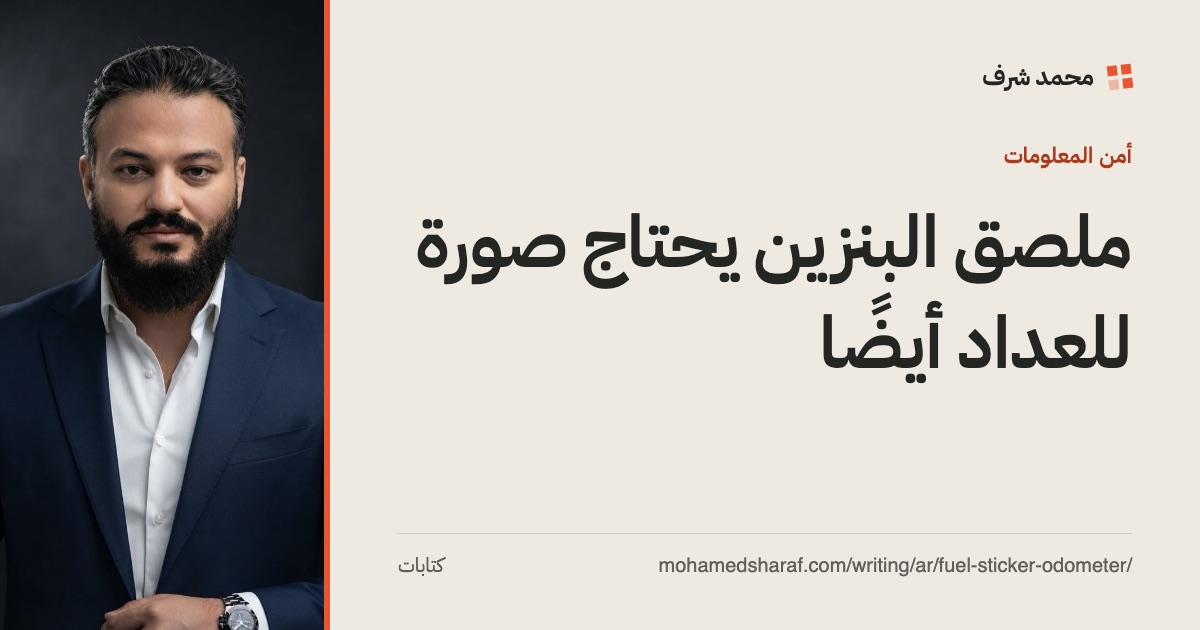
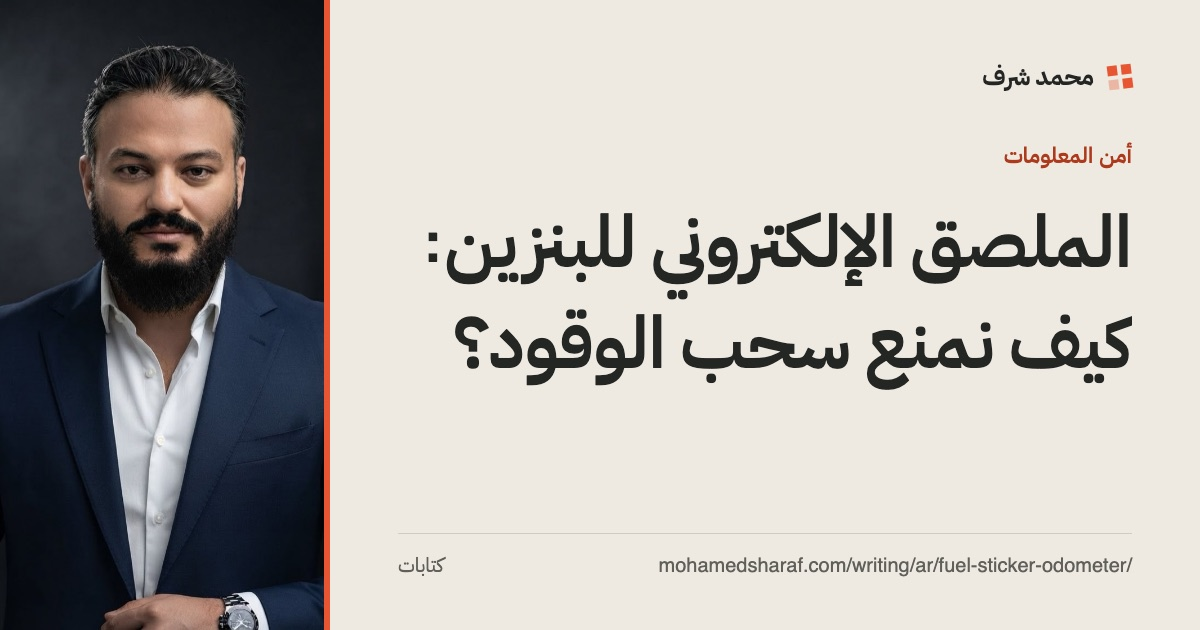
Replace the fuel sticker note with the detailed article, in English and Arabic

Changed region(s): [[0.3392, 0.3317, 0.9558, 0.6333]]

diff --git a/writing/fuel-sticker-odometer.ar.html b/writing/fuel-sticker-odometer.ar.html
@@ -1,16 +1,60 @@
 <!--
-{"slug": "fuel-sticker-odometer", "lang": "ar", "pair": "fuel-sticker-odometer", "status": "published", "title": "ملصق البنزين يحتاج صورة للعداد أيضًا", "description": "منظومة الوقود الجديدة في مصر تثبت أي سيارة تُزوَّد، لا أنها استهلكت الوقود. أضف صورة للعداد، واجعل التحايل عليها صعبًا.", "date": "2026-11-04", "topic": "أمن المعلومات"}
+{"slug": "fuel-sticker-odometer", "lang": "ar", "pair": "fuel-sticker-odometer", "status": "published", "title": "الملصق الإلكتروني للبنزين: كيف نمنع سحب الوقود؟", "description": "الملصق يثبت هوية السيارة، لا أنها استهلكت الوقود. الحل الذي أقترحه: مسح الملصق مع تصوير العداد، بضوابط أمنية تمنع التحايل عليه.", "date": "2026-11-04", "topic": "أمن المعلومات"}
 -->
 <p>في 1 نوفمبر <a href="https://www.cnbcarabia.com/159036/2026/31/10/مصر-تطلق-منظومة-إلكترونية-جديدة-لمراقبة-توزيع-الوقود">بدأت وزارة البترول تشغيلًا تجريبيًا</a> لمدة شهر في بورسعيد لمنظومة تتابع الوقود عبر الملصق الإلكتروني للسيارة الصادر عن وحدات المرور. تقرأ المحطات الملصق لتسجيل كل عملية تزويد، ومن <a href="https://www.elwatannews.com/news/details/8388115">الأهداف المعلنة</a> رصد أنماط الاستهلاك غير المعتادة. وتقول الوزارة إن المنظومة لا تحدد الكميات ولا ترتبط بالأسعار.</p>
-<p>وصلني سؤال منطقي: ما الذي يمنع سائقًا من ملء خزانه، ثم سحب الوقود وبيعه، والعودة من جديد؟ الملصق يثبت أي سيارة هذه، لكنه لا يثبت أنها استهلكت الوقود.</p>
-<p>إجابتي: امسح الملصق وصوّر العداد. مقارنة الوقود المأخوذ بالكيلومترات المقطوعة، على عدة تزويدات، تكشف من يأخذ أكثر بكثير مما تستهلكه سيارته. سيارة قطعت 50 كم منذ آخر تزويد وتطلب 40 لترًا حالة تستحق المراجعة.</p>
-<p>الفكرة بسيطة. العمل الحقيقي هو جعل التحايل عليها صعبًا:</p>
+<p>وصلني سؤال غريب لكنه منطقي: ماذا لو ملأ شخص خزان سيارته، ثم سحب الوقود منه وباعه، وعاد ليملأ من جديد؟ هنا يصبح الملصق وسيلة للتربح بدل أن يكون أداة رقابة.</p>
+<p>في هذا المقال أقترح حلًا بسيطًا، ثم أختبره بعقلية أمنية (security mindset): كيف يمكن خداعه، وكيف نسد كل ثغرة.</p>
+
+<h2>الحل المقترح: الملصق + العداد</h2>
+<p>الفكرة في خطوتين: مسح الملصق (sticker scan) لمعرفة السيارة، وتصوير عداد المسافات (odometer) لمعرفة المسافة التي قطعتها منذ آخر تزويد.</p>
+<p>النظام يعرف موديل السيارة ومعدل استهلاكه التقريبي، فيحسب الكمية المنطقية:</p>
+<pre><code>L_expected = (km_now − km_last) ÷ 100 × L100</code></pre>
+<p>حيث <code>L100</code> هو استهلاك الموديل باللتر لكل 100 كم.</p>
+<p>مثال: سيارة تستهلك 8 لترات لكل 100 كم، قطعت 50 كم فقط، وتطلب 40 لترًا. المنطقي حوالي 4 لترات، فالفرق كبير ويستحق المراجعة.</p>
+<p>المقارنة الأدق تكون تراكمية على عدة تزويدات، لأن السائق لا يملأ الخزان كاملًا في كل مرة. مجموع ما أخذته السيارة لا ينبغي أن يتجاوز ما استهلكته فعلًا بأكثر من سعة خزانها.</p>
+<p>السيارة تُزوَّد في الحالتين، والفرق أن الحالة الشاذة تُسجّل لمراجعة بشرية لاحقة.</p>
+
+<h2>التهديدات والضوابط الأمنية</h2>
+<p>أي نظام رقابي سيجد من يحاول التحايل عليه. هذه أهم الطرق المتوقعة، ولكل تهديد ضابط يقابله، ولا يكفي ضابط واحد بمفرده (Defense in depth).</p>
+
+<h3>1. سحب الوقود (Fuel siphoning)</h3>
+<p>يملأ الخزان ثم يسحب منه ويبيع، ويعود للتزويد. الضابط هو مقارنة تراكمية بين الكمية المصروفة والمسافة المقطوعة.</p>
+
+<h3>2. صورة مزيفة (Spoofed / replayed photo)</h3>
+<p>يرفع صورة قديمة للعداد أو صورة معدّلة. لذلك يكون التصوير مباشرًا من جهاز المحطة فقط (live capture)، مع ختم زمني ومعرّف الجهاز موقّعين (signed timestamp + device ID)، ولا رفع (upload) من هاتف السائق.</p>
+
+<h3>3. نقل الملصق أو استنساخه (Sticker transfer / cloning)</h3>
+<p>يستخدم ملصق سيارة متوقفة لسيارة أخرى. الضابط هو قراءة لوحة السيارة آليًا (ANPR) ومطابقتها مع الملصق، وملصق يتلف عند نزعه (tamper-evident).</p>
+
+<h3>4. ترجيع العداد (Odometer rollback)</h3>
+<p>يعدّل قراءة العداد ليبدو أنه قطع مسافة أكبر أو أصغر. وأي قراءة أقل من السابقة تعني تنبيهًا فوريًا.</p>
+
+<h3>5. تواطؤ العامل (Insider threat)</h3>
+<p>عامل المحطة يسجّل قراءة غير حقيقية مقابل مال. الضابط هو ربط كل عملية بهوية العامل والجهاز، وتحليل الأنماط لكل عامل ومحطة (anomaly detection)، وسجل غير قابل للتعديل (append-only audit log).</p>
+<p>هذه أخطر ثغرة في القائمة، لأن العامل يملك الجهاز والكاميرا معًا. التقنية وحدها لا تمنعه، لكنها تجعل كل عملية منسوبة إلى شخص بعينه. والعامل الذي يشذّ نمطه عن زملائه سيظهر في التحليل سريعًا.</p>
+
+<h3>6. التكرار بين المحطات (Double dipping)</h3>
+<p>يزوّد من أكثر من محطة في وقت قصير. الحل هو سجل مركزي واحد لكل سيارة، تراه كل المحطات لحظيًا.</p>
+
+<h2>نرصد ولا نمنع (Flag, Don’t Block)</h2>
+<p>النظام يضع علامة على الحالات الغريبة ويحيلها للمراجعة، ولا يمنع التزويد آليًا.</p>
+<p>السبب هو الإنذارات الكاذبة (false positives): عداد معطّل، أو رحلة سفر طويلة، أو سيارة تقضي ساعات في الزحام فتستهلك أكثر من المعدل. المنع الآلي هنا يظلم أبرياء ويصنع طوابير.</p>
 <ul>
-  <li>تُلتقط الصورة مباشرة من جهاز المحطة، بوقت ومعرّف جهاز موقّعين. لا تُقبل صورة مرفوعة من هاتف السائق.</li>
-  <li>تُقرأ لوحة السيارة آليًا وتُطابق مع الملصق، حتى لا ينتقل الملصق إلى سيارة أخرى.</li>
-  <li>أي قراءة للعداد أقل من السابقة تعني تنبيهًا فوريًا.</li>
-  <li>كل عملية مرتبطة بالعامل الذي نفذها. تواطؤ العاملين هو الخطر الأكبر، وأنماطهم تظهر بوضوح.</li>
-  <li>نضع علامة ولا نمنع. العداد المعطل والسفر الطويل حالات حقيقية، فالقرار النهائي لموظف يراجع الحالة.</li>
-  <li>تُحفظ القراءة، وتُحذف الصورة.</li>
+  <li>كل عملية تأخذ درجة خطورة (risk score) بدل قرار نعم/لا.</li>
+  <li>القرار النهائي بشري (human in the loop)، والإجراء يأتي بعد تكرار النمط لا من أول مرة.</li>
+  <li>السيارة ذات العداد المعطّل تُسجّل كحالة خاصة مع مهلة للإصلاح.</li>
 </ul>
-<p class="note">هذا تصوري الشخصي، وليس وصفًا لطريقة عمل المنظومة الرسمية.</p>
+
+<h2>الخصوصية (Privacy)</h2>
+<p>النظام يحتاج الرقم لا الصورة، فلا داعي لاحتفاظه بما لا يحتاجه (data minimization):</p>
+<ul>
+  <li><strong>الصورة:</strong> تُقرأ منها القيمة ثم تُحذف، إلا إذا وُضعت عليها علامة فتُحفظ للمراجعة فقط.</li>
+  <li><strong>المخزّن:</strong> رقم الملصق، قراءة العداد، الكمية، المحطة، الوقت. لا تتبّع لموقع السيارة خارج المحطات.</li>
+  <li><strong>الوصول:</strong> تشفير البيانات، وصلاحيات بأقل قدر لازم (least privilege)، وسجل لكل من يطّلع على بيانات سيارة.</li>
+  <li><strong>الاحتفاظ:</strong> مدة محددة معلنة (retention policy) تُحذف بعدها السجلات القديمة.</li>
+</ul>
+
+<h2>الخلاصة</h2>
+<p>“مسح الملصق + صورة العداد” فكرة بسيطة، لكن قيمتها الحقيقية في التفاصيل الأمنية حولها: من يلتقط الصورة، وكيف نثبت أنها حقيقية، وماذا نفعل عند الشك. الفكرة بسيطة، لكن الشيطان دائمًا في الـ security.</p>
+<p>هل ترى ثغرة لم أذكرها؟ شاركني رأيك.</p>
+<p class="note">تنويه: هذا تصور شخصي مني لحل المشكلة، وليس وصفًا للمنظومة الرسمية أو طريقة بنائها.</p>

diff --git a/writing/fuel-sticker-odometer.en.html b/writing/fuel-sticker-odometer.en.html
@@ -1,16 +1,60 @@
 <!--
-{"slug": "fuel-sticker-odometer", "lang": "en", "pair": "fuel-sticker-odometer", "status": "published", "title": "The fuel sticker needs an odometer photo too", "description": "Egypt’s new fuel tracking proves which car is filling up, not that it burned the fuel. Add an odometer photo, and make it hard to cheat.", "date": "2026-11-04", "topic": "Security"}
+{"slug": "fuel-sticker-odometer", "lang": "en", "pair": "fuel-sticker-odometer", "status": "published", "title": "The fuel e-sticker: how do we stop fuel siphoning?", "description": "The sticker proves which car it is, not that it used the fuel. My proposal: scan the sticker, photograph the odometer, and make cheating hard.", "date": "2026-11-04", "topic": "Security"}
 -->
 <p>On 1 November Egypt’s Ministry of Petroleum <a href="https://www.cnbcarabia.com/159036/2026/31/10/مصر-تطلق-منظومة-إلكترونية-جديدة-لمراقبة-توزيع-الوقود">started a one-month trial</a> in Port Said of a system that tracks fuel through each car’s electronic traffic sticker. Stations read the sticker to log every fill-up, and one <a href="https://egyptoil-gas.com/news/egypt-to-pilot-digital-fuel-tracking-system-to-curb-smuggling/">stated goal</a> is spotting unusual consumption. The ministry says it won’t limit quantities or touch prices.</p>
-<p>Someone asked me a fair question: what stops a driver filling up, siphoning the fuel out, selling it and coming back? The sticker proves which car it is. It doesn’t prove the car burned the fuel.</p>
-<p>My answer: scan the sticker and photograph the odometer. Fuel taken against kilometres driven, checked over several fill-ups, shows who takes far more than their car could use. 50 km since the last visit and 40 litres requested is worth a look.</p>
-<p>The idea is simple. Making it hard to cheat is the real work:</p>
+<p>I got a strange but fair question: what if someone fills the tank, siphons the fuel out, sells it and comes back to fill up again? Then the sticker becomes a way to profit instead of a control.</p>
+<p>In this article I propose a simple solution, then test it with a security mindset: how could it be fooled, and how do we close each gap?</p>
+
+<h2>The proposed solution: sticker + odometer</h2>
+<p>Two steps: scan the sticker to identify the car, and photograph the odometer to see how far it has driven since the last refuel.</p>
+<p>The system knows the car’s model and its typical consumption, so it calculates the expected amount:</p>
+<pre><code>L_expected = (km_now − km_last) ÷ 100 × L100</code></pre>
+<p>Here <code>L100</code> is the model’s consumption in litres per 100 km.</p>
+<p>Example: a car that uses 8 litres per 100 km has driven only 50 km and asks for 40 litres. The expected amount is about 4 litres, so the gap is large and worth a review.</p>
+<p>A more accurate check is cumulative across several refuels, because drivers don’t always fill the tank. The total fuel a car has taken should never exceed what it actually burned by more than one tank’s capacity.</p>
+<p>The car is refuelled either way. An anomaly is simply logged for a later human review.</p>
+
+<h2>Threats and controls</h2>
+<p>Any control system will attract people trying to game it. These are the most likely attacks, each with its matching control. No single control is enough on its own (defence in depth).</p>
+
+<h3>1. Fuel siphoning</h3>
+<p>The driver fills the tank, drains and sells the fuel, then comes back to refuel. The control is a cumulative comparison of fuel dispensed against distance driven.</p>
+
+<h3>2. Spoofed or replayed photo</h3>
+<p>Someone submits an old odometer photo or an edited one. So the photo is a live capture from the station’s device only, with a signed timestamp and device ID. No uploads from the driver’s phone.</p>
+
+<h3>3. Sticker transfer or cloning</h3>
+<p>A parked car’s sticker gets used on another car. Automatic plate reading (ANPR) matched to the sticker stops this, along with a tamper-evident sticker that breaks when removed.</p>
+
+<h3>4. Odometer rollback</h3>
+<p>The odometer is tampered with so the distance looks longer or shorter. Any reading lower than the previous one triggers an instant alert.</p>
+
+<h3>5. Insider threat</h3>
+<p>A station attendant records a fake reading for a bribe. Every transaction is tied to the attendant’s identity and device, with anomaly detection per attendant and station, and an append-only audit log.</p>
+<p>This is the most dangerous gap, because the attendant controls both the device and the camera. Technology alone can’t stop it, but it ties every transaction to a specific person. An attendant whose pattern differs from their colleagues’ will stand out quickly.</p>
+
+<h3>6. Double dipping</h3>
+<p>The driver refuels at several stations within a short time. The answer is one central record per car, visible to every station in real time.</p>
+
+<h2>Flag, don’t block</h2>
+<p>The system flags unusual cases for review. It does not block refuelling automatically.</p>
+<p>The reason is false positives: a broken odometer, a long road trip, or a car that spends hours in traffic and burns more than average. Automatic blocking would punish innocent drivers and create queues.</p>
 <ul>
-  <li>Take the photo live on the station’s device, with a signed time and device ID. Never accept an upload from the driver’s phone.</li>
-  <li>Read the number plate automatically and match it to the sticker, so a sticker can’t move to another car.</li>
-  <li>Treat any odometer reading lower than the last one as an instant alert.</li>
-  <li>Tie every transaction to the attendant who made it. Colluding staff are the biggest risk, and their patterns stand out.</li>
-  <li>Flag, don’t block. Broken odometers and long trips are real, so a person makes the call.</li>
-  <li>Keep the reading, delete the photo.</li>
+  <li>Every transaction gets a risk score instead of a yes/no decision.</li>
+  <li>The final call is made by a person (human in the loop), and action follows a repeated pattern, not a single event.</li>
+  <li>A car with a broken odometer is registered as a special case with a grace period to fix it.</li>
 </ul>
-<p class="note">This is my own proposal, not a description of how the official system works.</p>
+
+<h2>Privacy</h2>
+<p>The system needs the number, not the photo, so it shouldn’t keep what it doesn’t need (data minimisation):</p>
+<ul>
+  <li><strong>Photo:</strong> the reading is extracted, then the photo is deleted, unless it is flagged and kept for review only.</li>
+  <li><strong>Stored:</strong> sticker number, odometer reading, amount, station and time. No tracking of the car’s location outside stations.</li>
+  <li><strong>Access:</strong> encrypted data, least-privilege permissions, and a log of everyone who views a car’s records.</li>
+  <li><strong>Retention:</strong> a fixed, published retention period, after which old records are deleted.</li>
+</ul>
+
+<h2>Conclusion</h2>
+<p>“Sticker scan + odometer photo” is a simple idea. Its real value is in the security details around it: who takes the photo, how we prove it’s genuine, and what we do when something looks off. The idea is simple, but the devil is always in the security.</p>
+<p>See a gap I missed? Let me know.</p>
+<p class="note">This is my personal take on solving the problem, not a description of the official system or how it is built.</p>
